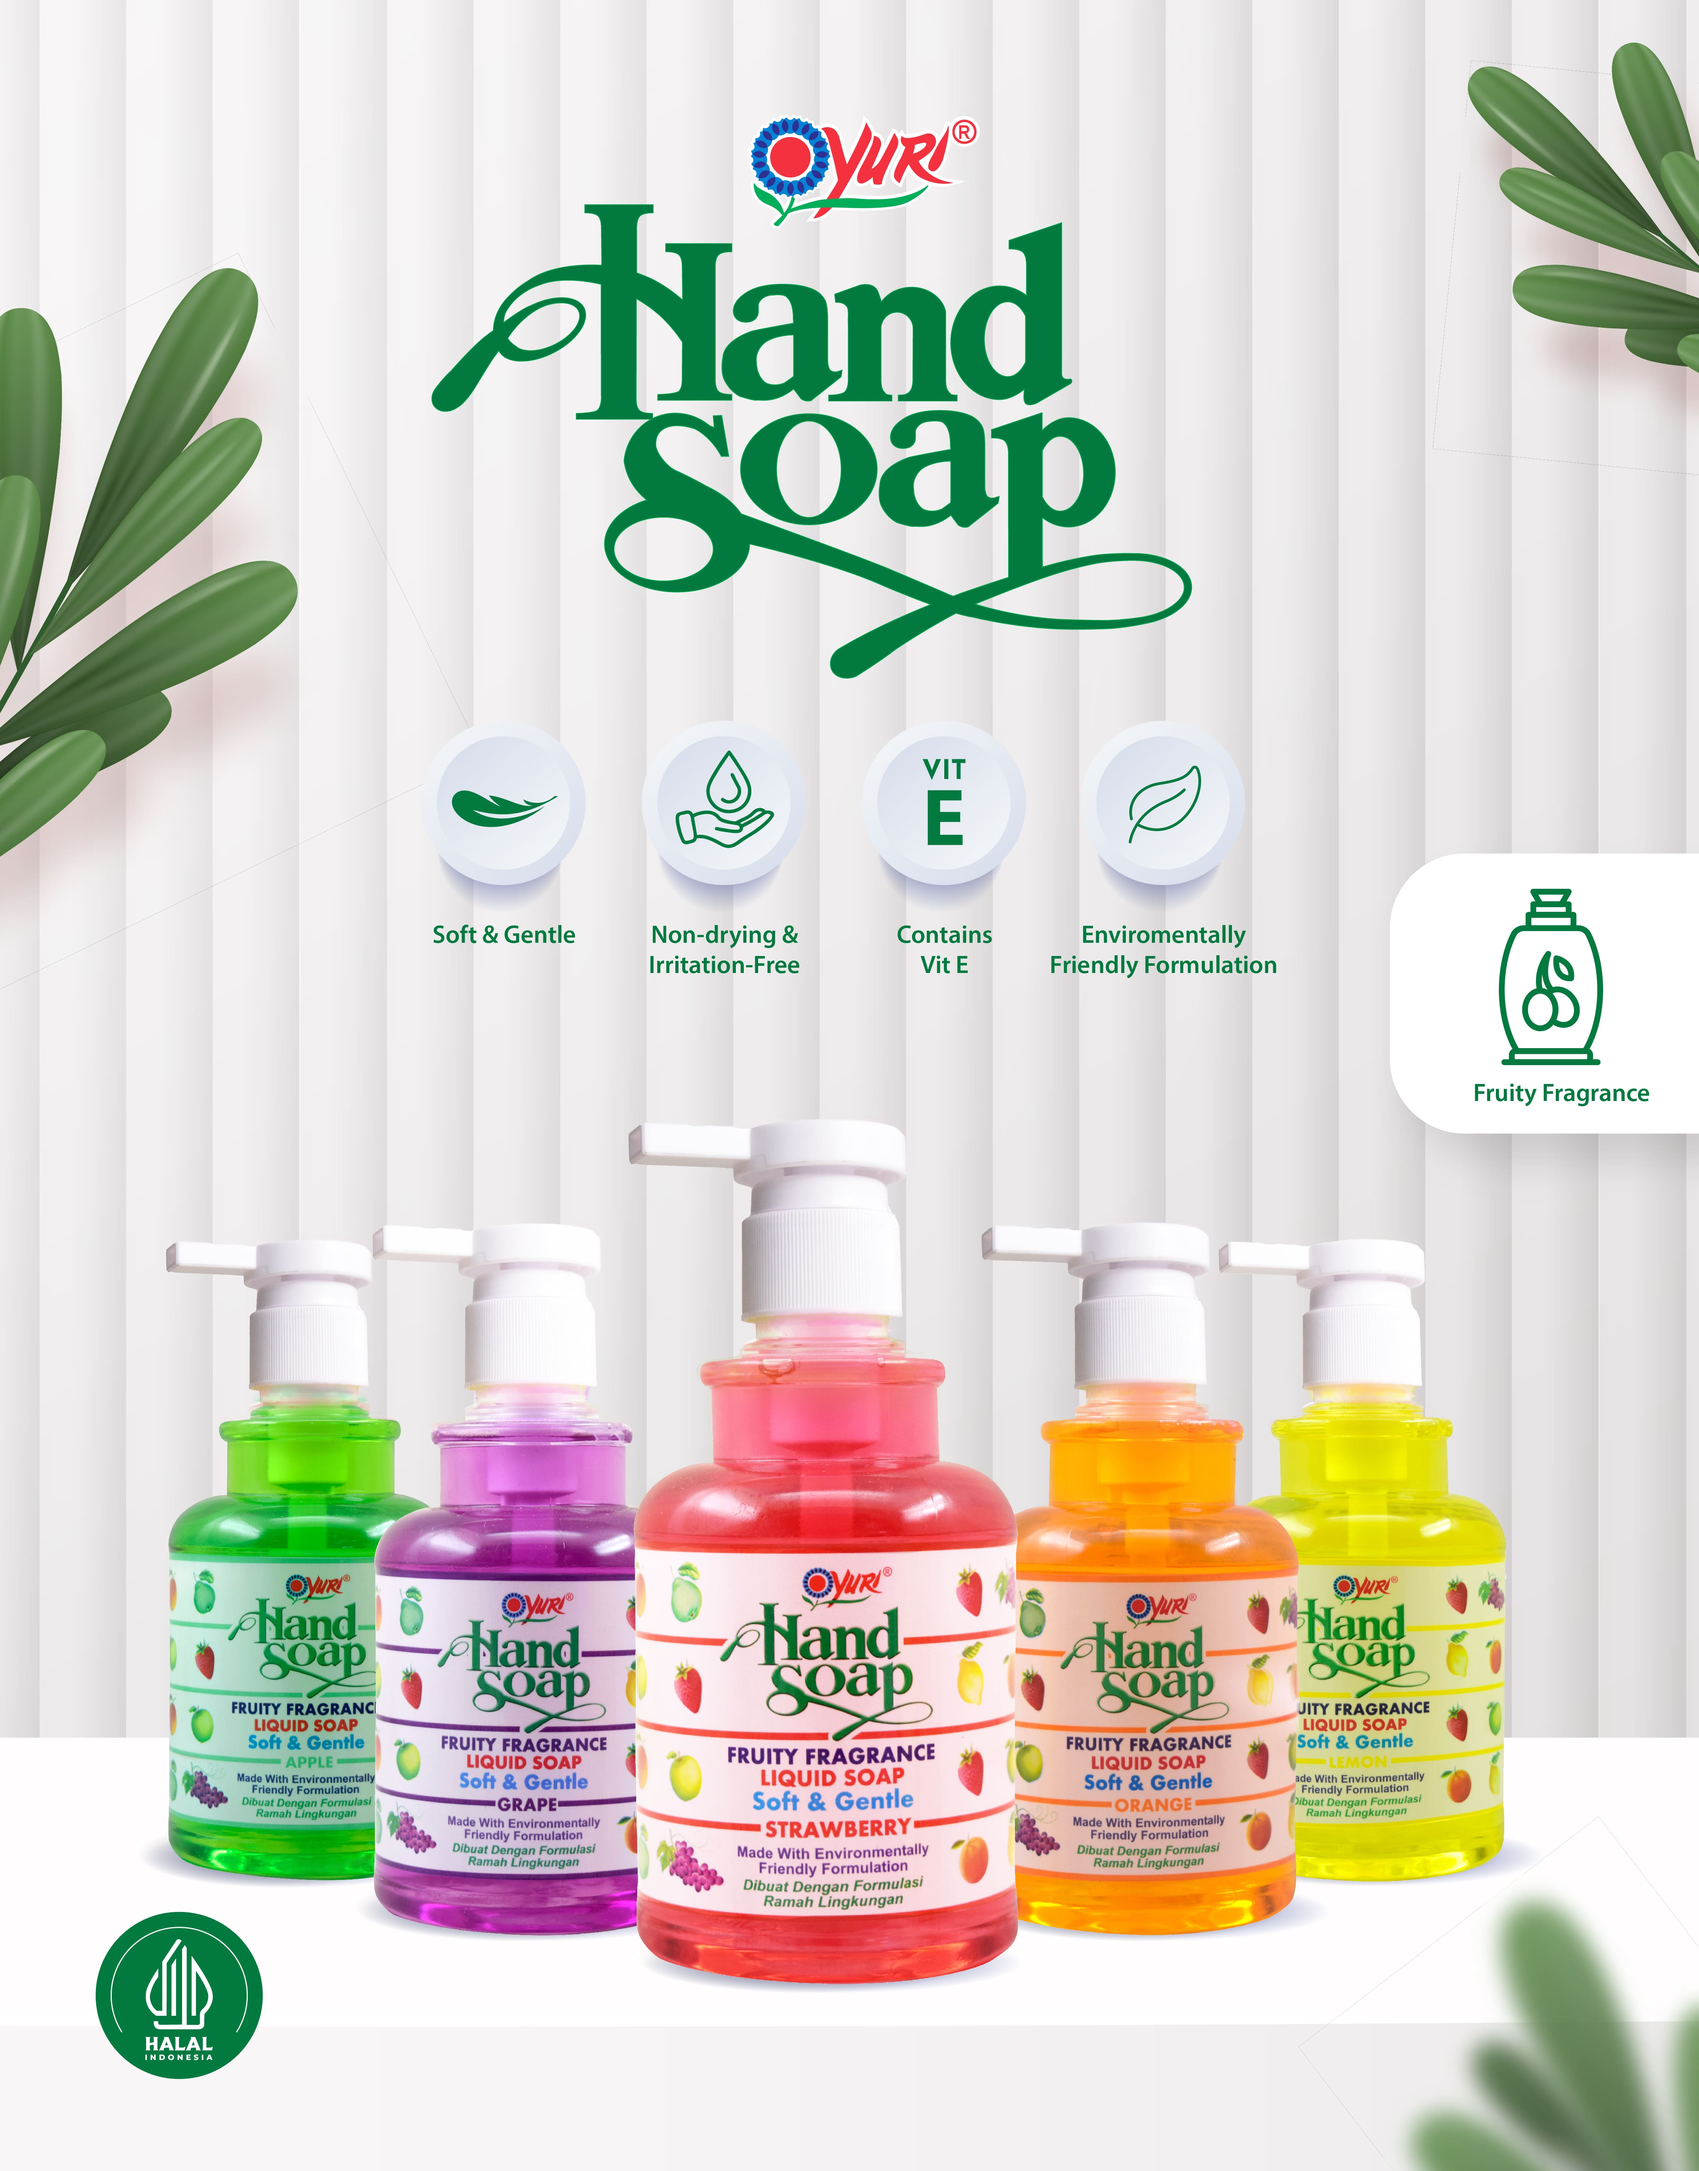
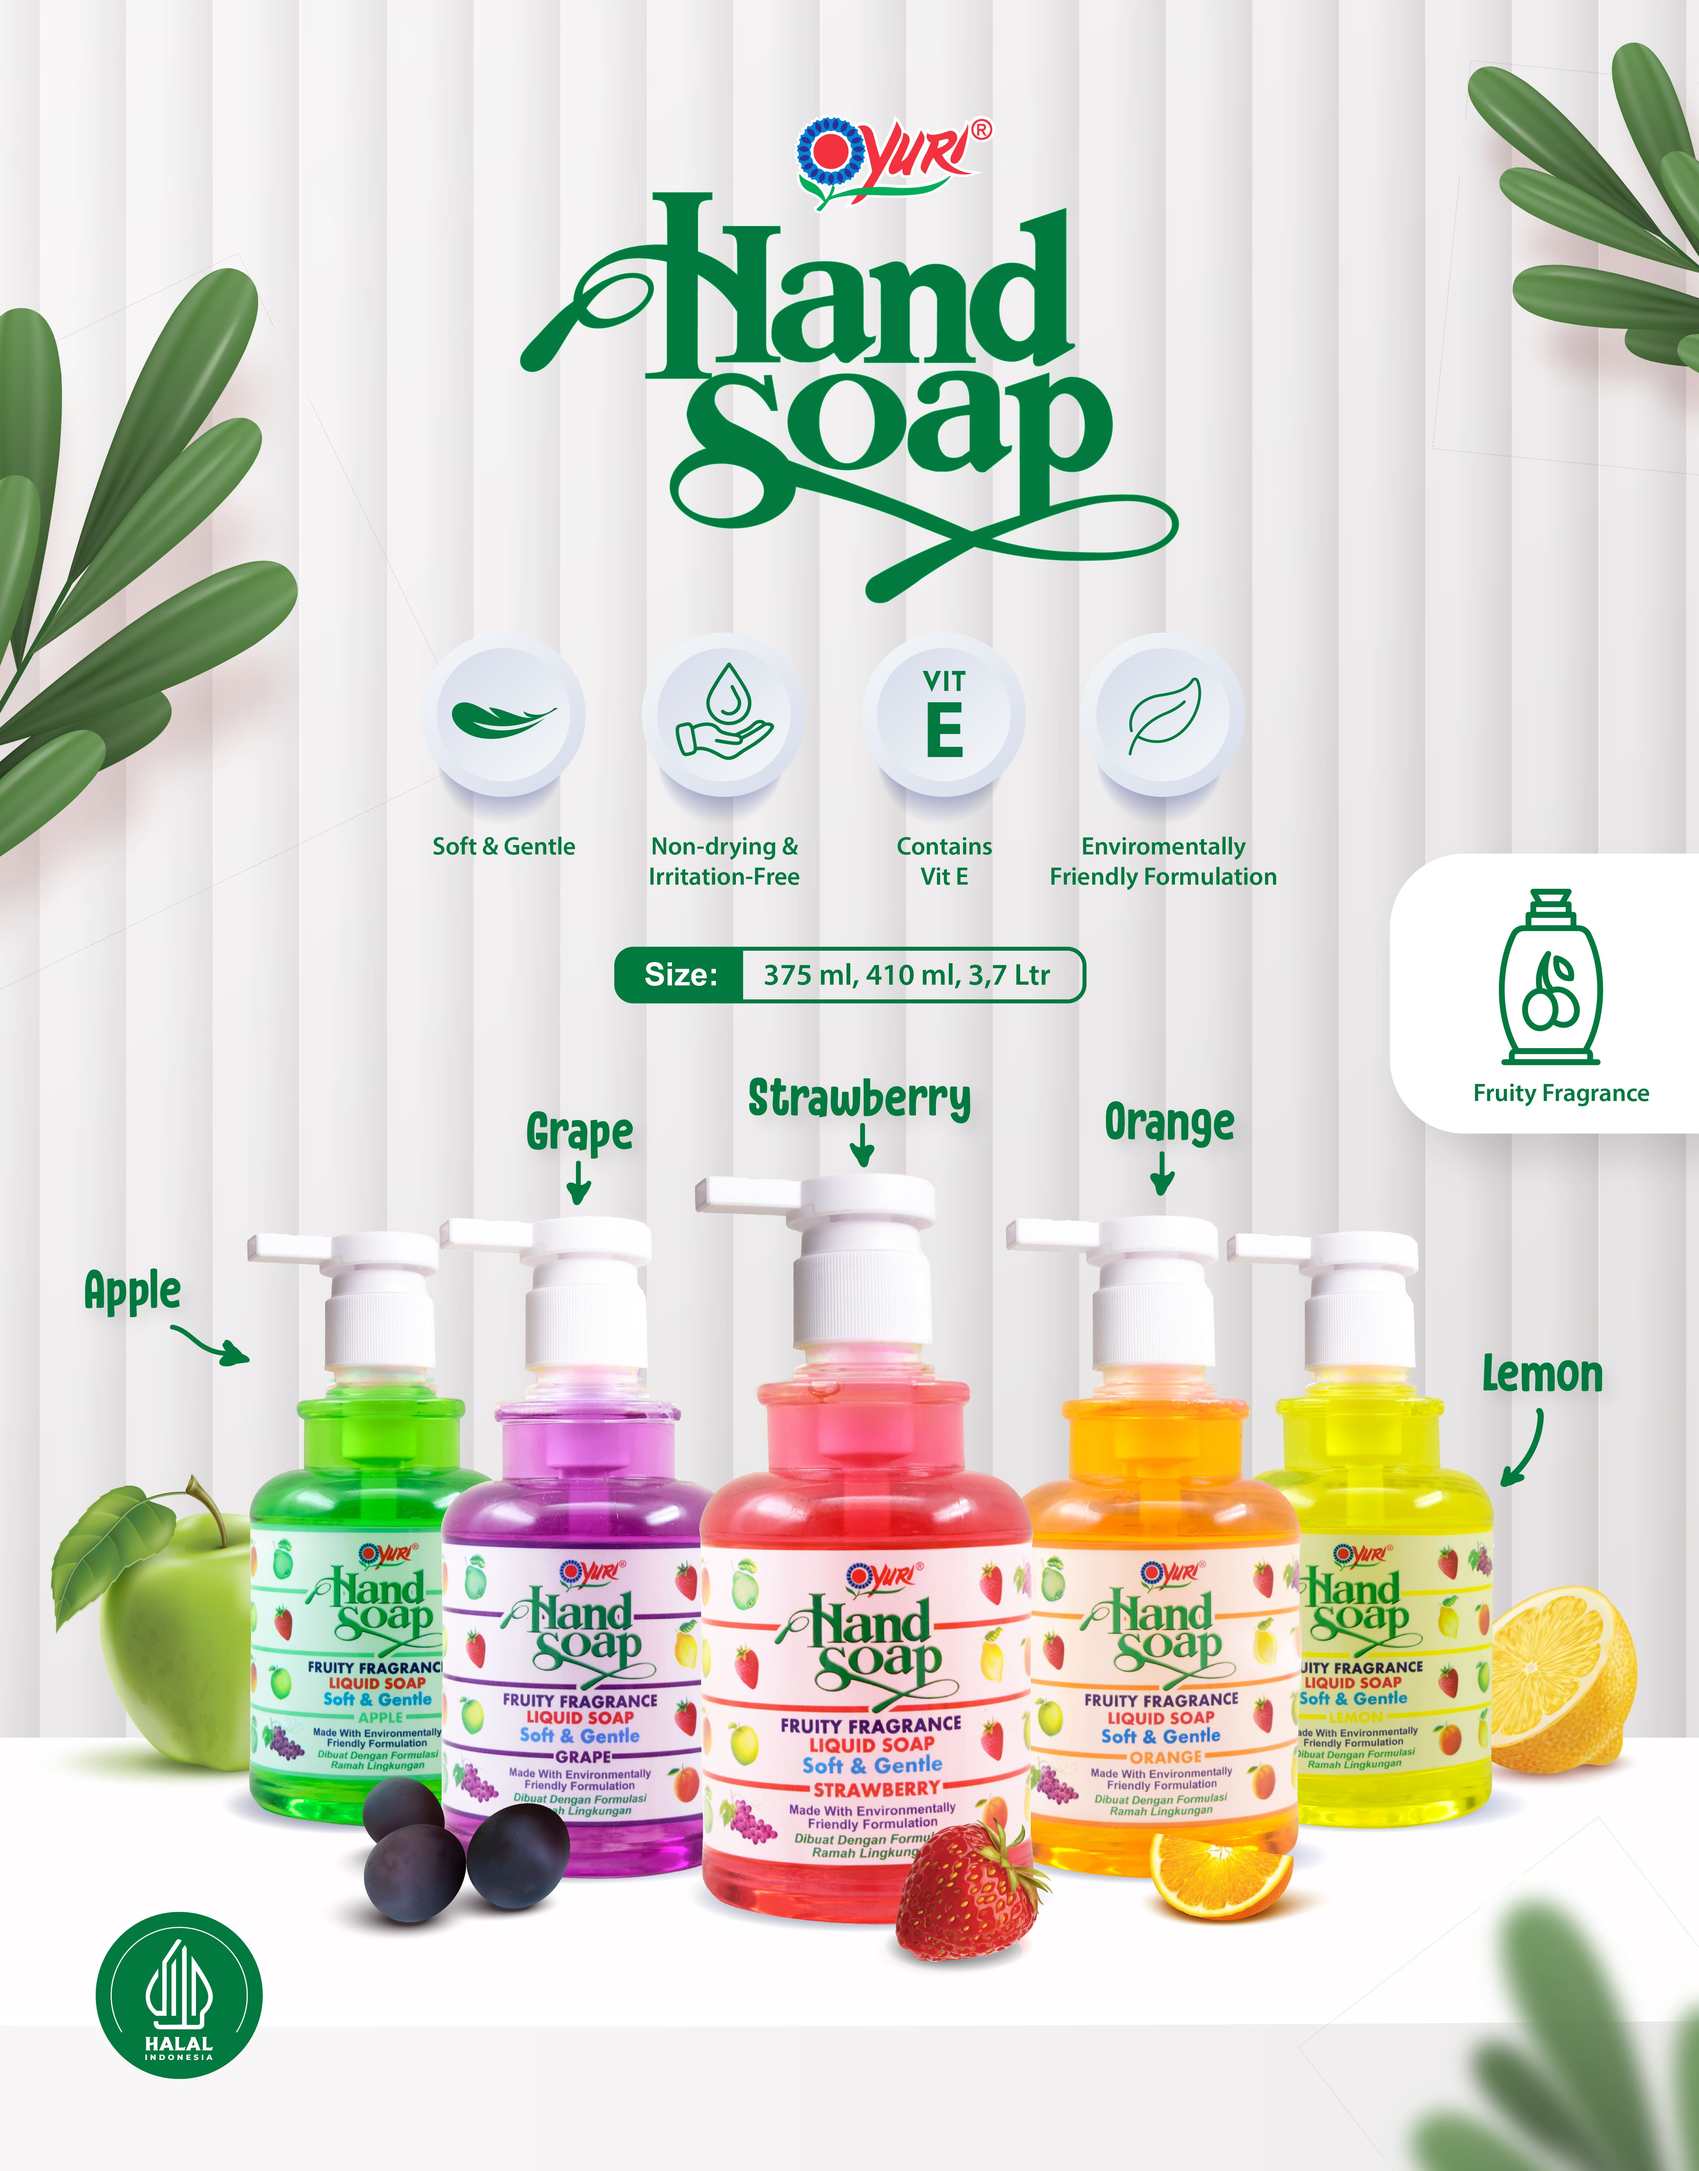
update infografis new

diff --git a/public/css/style.css b/public/css/style.css
@@ -268,6 +268,30 @@ a:active {
 /* Mobile Screen */
 @media only screen and (max-width: 600px) {
 
+    #footerproduktril{
+        height: 50px;
+        padding-top: 10px;
+        position: fixed;
+        bottom: 0;
+        width: 100%;
+    }
+
+    #footerproduktaf{
+        height: 50px;
+        padding-top: 10px;
+        position: fixed;
+        bottom: 0;
+        width: 100%;
+    }
+
+    #footerprodukhandsoap{
+        height: 50px;
+        padding-top: 10px;
+        position: fixed;
+        bottom: 0;
+        width: 100%;
+    }
+
     #footer-childrentoilet{
         height: 50px;
         padding-top: 10px;
@@ -2362,6 +2386,30 @@ a:active {
 /* Tablet Screen */
 @media screen and (min-width: 800px) and (max-width: 900px) {
 
+    #footerproduktril{
+        height: 50px;
+        padding-top: 10px;
+        position: fixed;
+        bottom: 0;
+        width: 100%;
+    }
+
+    #footerproduktaf{
+        height: 50px;
+        padding-top: 10px;
+        position: fixed;
+        bottom: 0;
+        width: 100%;
+    }
+
+    #footerprodukhandsoap{
+        height: 50px;
+        padding-top: 10px;
+        position: fixed;
+        bottom: 0;
+        width: 100%;
+    }
+
     #footer-childrentoilet{
         height: 50px;
         padding-top: 10px;
@@ -2839,6 +2887,14 @@ a:active {
 
 /* High Screen Resolution */
 @media only screen and (min-width: 1300px) {
+
+    #footerprodukhandsoap{
+        height: 50px;
+        padding-top: 10px;
+        position: fixed;
+        bottom: 0;
+        width: 100%;
+    }
 
     #footer-childrentoilet{
         height: 50px;

diff --git a/resources/views/brands/produkhandsoap.blade.php b/resources/views/brands/produkhandsoap.blade.php
@@ -125,27 +125,11 @@
 
         <div id="imagebrand" class="row mt-3">
             <div class="col-6">
-                <img class="aganol1" src="images/infografisproduk/yuri/handsoap/handsoapinfograph-02.jpg" alt=""
+                <img class="aganol1" src="images/infografisproduk/yuri/handsoap/handsoapFOAMINGinfograph-01.jpg" alt=""
                     width="100%" style="border-radius: 10%;">
             </div>
             <div class="col-6">
-                <img class="aganol2" src="images/infografisproduk/yuri/handsoap/handsoapinfograph-03.jpg" alt=""
-                    width="100%" width="100%" style="border-radius: 10%;">
-            </div>
-            <div class="col-6 mt-3">
-                <img class="aganol3" src="images/infografisproduk/yuri/handsoap/handsoapinfograph-04.jpg" alt=""
-                    width="100%" alt="" width="100%" style="border-radius: 10%;">
-            </div>
-            <div class="col-6 mt-3">
-                <img class="aganol4" src="images/infografisproduk/yuri/handsoap/handsoapinfograph-05.jpg" alt=""
-                    width="100%" width="100%" style="border-radius: 10%;">
-            </div>
-            <div class="col-6 mt-3">
-                <img class="aganol3" src="images/infografisproduk/yuri/handsoap/handsoapinfograph-06.jpg" alt=""
-                    width="100%" alt="" width="100%" style="border-radius: 10%;">
-            </div>
-            <div class="col-6 mt-3">
-                <img class="aganol4" src="images/infografisproduk/yuri/handsoap/handsoapinfograph-01.jpg" alt=""
+                <img class="aganol2" src="images/infografisproduk/yuri/handsoap/handsoapinfograph-01.jpg" alt=""
                     width="100%" width="100%" style="border-radius: 10%;">
             </div>
         </div>

diff --git a/resources/views/brands/produktril.blade.php b/resources/views/brands/produktril.blade.php
@@ -123,24 +123,16 @@
         <img src="images/infografisproduk/yuri/tril/logoyuritril.png" alt="" width="150px">
     </div>
 
-    <div id="imagebrand" class="row mt-3">
+    <div class="aganolgeneral">
+        <img src="images/infografisproduk/yuri/tril/trilinfograph-01.jpg" alt="" />
+    </div>
+
+    {{-- <div id="imagebrand" class="row mt-3">
         <div class="col-6">
             <img class="aganol1" src="images/infografisproduk/yuri/tril/trilinfograph-01.jpg" alt=""
                 width="100%" style="border-radius: 10%;">
         </div>
-        <div class="col-6">
-            <img class="aganol2" src="images/infografisproduk/yuri/tril/trilinfograph-02.jpg" alt=""
-                width="100%" width="100%" style="border-radius: 10%;">
-        </div>
-        <div class="col-6 mt-3">
-            <img class="aganol3" src="images/infografisproduk/yuri/tril/trilinfograph-03.jpg" alt=""
-                width="100%" alt="" width="100%" style="border-radius: 10%;">
-        </div>
-        <div class="col-6 mt-3">
-            <img class="aganol4" src="images/infografisproduk/yuri/tril/trilinfograph-04.jpg" alt=""
-                width="100%" width="100%" style="border-radius: 10%;">
-        </div>
-    </div>
+    </div> --}}
 
     <div class="button-brand">
         <a href="https://www.yurishop.co/id/product/Tril-Ironing-Starch-Lavender-500-ml" target="_blank"><img

diff --git a/resources/views/brands/produktaf.blade.php b/resources/views/brands/produktaf.blade.php
@@ -132,14 +132,6 @@
                 <img class="aganol2" src="images/infografisproduk/yuri/taf/tafinfograph-02.jpg" alt=""
                     width="100%" width="100%" style="border-radius: 10%;">
             </div>
-            <div class="col-6 mt-3">
-                <img class="aganol3" src="images/infografisproduk/yuri/taf/tafinfograph-03.jpg" alt=""
-                    width="100%" alt="" width="100%" style="border-radius: 10%;">
-            </div>
-            <div class="col-6 mt-3">
-                <img class="aganol4" src="images/infografisproduk/yuri/taf/tafinfograph-04.jpg" alt=""
-                    width="100%" width="100%" style="border-radius: 10%;">
-            </div>
         </div>
 
         <div class="button-brand">
